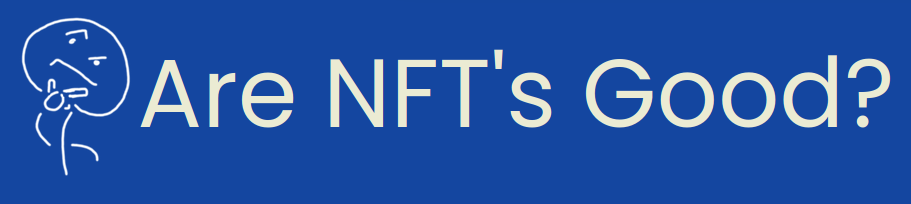
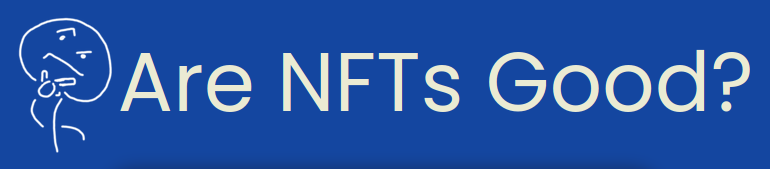
images

Changed region(s): [[0.0, 0.0888, 0.9974, 0.8284], [0.1558, 0.9763, 0.8104, 1.0], [0.0623, 0.8284, 0.0935, 0.8876]]

diff --git a/frontend/index.html b/frontend/index.html
@@ -16,7 +16,7 @@
     <meta property="og:description" content="Find out whether NFTs are good, crowdsourced from the Internet.">
     <meta property="og:image" content="image.png">
 
-    <link rel="icon" href="/favicon.ico">
+    <link rel="icon" href="./favicon.ico">
 
     <link href='https://fonts.googleapis.com/css?family=Poppins' rel='stylesheet'>
     <link rel="stylesheet" href="styles.css">
@@ -26,19 +26,19 @@
 <body>
     <div id="page">
         <div id="center">
+            <div id="answer" class="clickable" onclick="window.open('https://twitter.com/areNftsGood');"></div>
             <div id="title">
                 <img src="./hmm.png">
-                <div class="smallText">Are NFT's Good?</div>
+                <div class="smallText">Are NFTs Good?</div>
             </div>
-            <div id="answer"></div>
         </div>
         <div id="disclaimer" class="clickable">
             <p><a href="https://github.com/willf668/are-nfts-good" target="_blank">*It's more complicated than it
                     looks.</a></p>
         </div>
         <div id="footer">
-            <a id="footerText" class="clickable" target="_blank" href="https://willfarhat.com/">Made by Will Farhat
-                -</a>
+            <a id="footerText" class="clickable" target="_blank" href="https://willfarhat.com/">Made by Will Farhat -
+            </a>
         </div>
     </div>
 </body>
